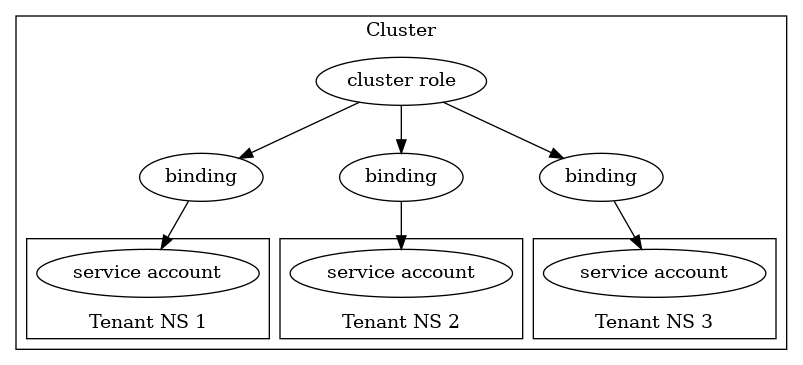
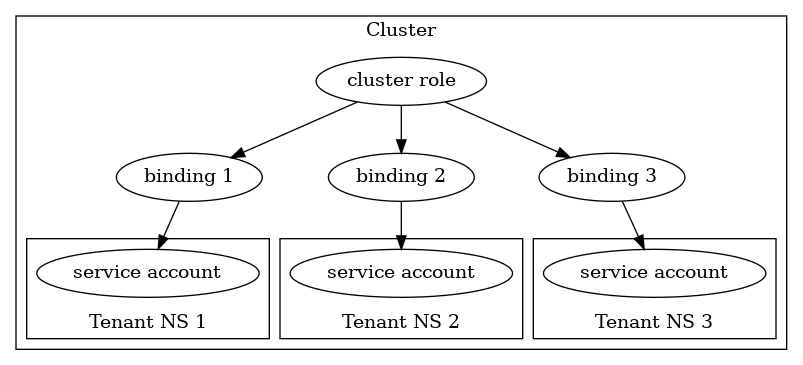
Incorporate the role diagrams

diff --git a/docs/hugo/content/introduction/multitenant-deployment.md b/docs/hugo/content/introduction/multitenant-deployment.md
@@ -84,7 +84,9 @@ secret/default-token-mqmpb       kubernetes.io/service-account-token   3      3d
 ## Role handling
 The multi-tenant deployment example files have a single `ClusterRole` that grants access to the Azure resource types,
 and then a binding to that `ClusterRole` for the service account in each tenant-operator namespace.
-Each `ClusterRoleBinding` is named for the specific tenant so they don't collide and can be managed separately.
+Each `ClusterRoleBinding` is named for the specific tenant so they don't collide and can be managed separately:
+
+![diagram showing cluster-level role bindings pointing to tenant namespace service accounts](../multitenant-simple-roles.png)
 
 This is convenient since there's no need to permit access for Azure resources in each of the target namespaces individually,
 but it means that the only thing preventing one tenant operator from reading another's resources is the `AZURE_TARGET_NAMESPACES` setting for each operator.
@@ -92,7 +94,9 @@ but it means that the only thing preventing one tenant operator from reading ano
 For some usage scenarios that might be too permissive.
 
 In those cases the `azureserviceoperator-manager-role` should be changed from a `ClusterRole` into `Role`s in each of the target namespaces (where the Azure resources will be created, rather than where the tenant-operator pods run),
-and a `RoleBinding` should be created in that namespace linking the `Role` to the service account for the tenant operator that will be managing Azure resources in this target namespace.
+and a `RoleBinding` should be created in that namespace linking the `Role` to the service account for the tenant operator that will be managing Azure resources in this target namespace:
+
+![diagram showing namespace-scoped roles and bindings pointing to tenant operator service accounts](../multitenant-restrictive-roles.png)
 
 ## Upgrading
 When upgrading to a newer version of ASO the cluster-wide resources (CRDs, cluster roles) and the webhook deployment must be upgraded before upgrading the tenant operators.
